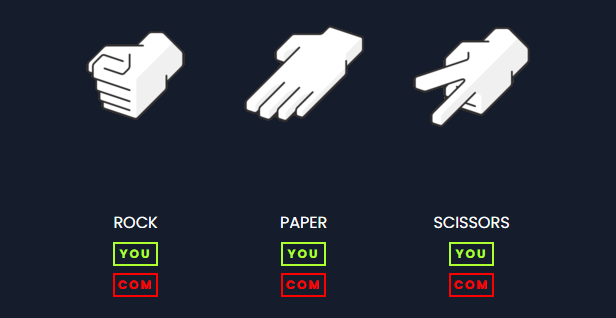
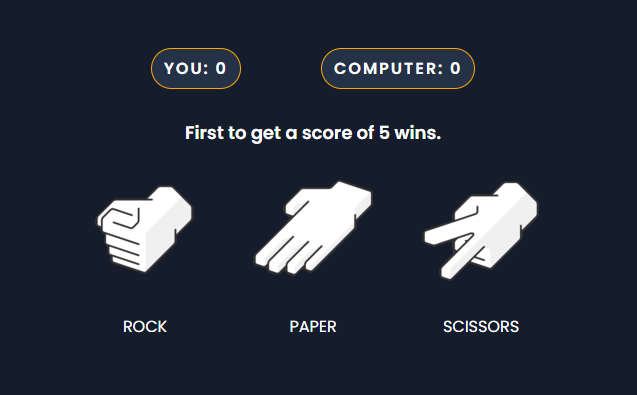
updated thumbnail and description for Rock Paper Scissors Project

diff --git a/index.html b/index.html
@@ -50,6 +50,33 @@
       <!-- Start project section  -->
       <div id="project-section">
         <h2 class="project-section-header">Recent Projects</h2>
+
+        <div class="project-wrapper">
+          <a
+            class="project-tile"
+            href="https://github.com/t-kupp/odin-rock-paper-scissors"
+            target="_blank"
+            ><img
+              class="project-thumbnail"
+              src="./images/rock-paper-scissors-thumbnail.png"
+            />
+            <p class="project-name">Rock Paper Scissors</p></a
+          >
+          <div class="project-description">
+            <p>
+              My first Javascript project. Originally the game was only playable
+              in console but now I added a fully functional User Interface.
+            </p>
+            <div class="language-icon-wrapper">
+              <p>
+                <i class="devicon-html5-plain colored"></i>
+                <i class="devicon-css3-plain colored"></i>
+                <i class="devicon-javascript-plain colored"></i>
+              </p>
+            </div>
+          </div>
+        </div>
+
         <div class="project-wrapper">
           <a
             class="project-tile"
@@ -70,33 +97,6 @@
               <p>
                 <i class="devicon-html5-plain colored"></i>
                 <i class="devicon-css3-plain colored"></i>
-              </p>
-            </div>
-          </div>
-        </div>
-
-        <div class="project-wrapper">
-          <a
-            class="project-tile"
-            href="https://github.com/t-kupp/odin-rock-paper-scissors"
-            target="_blank"
-            ><img
-              class="project-thumbnail"
-              src="./images/rock-paper-scissors-thumbnail.png"
-            />
-            <p class="project-name">Rock Paper Scissors</p></a
-          >
-          <div class="project-description">
-            <p>
-              The first Javascript project from theodinproject.com. The game is
-              currently only playable in console and I am working on building a
-              usable interface.
-            </p>
-            <div class="language-icon-wrapper">
-              <p>
-                <i class="devicon-html5-plain colored"></i>
-                <i class="devicon-css3-plain colored"></i>
-                <i class="devicon-javascript-plain colored"></i>
               </p>
             </div>
           </div>

diff --git a/README.md b/README.md
@@ -2,4 +2,4 @@
 Portfolio Website
 
 Putting what I have learned in freecodecamp.org's responsive web design course to the test I developed my first own portfolio website.
-It is quite empty for now but I hope to add more projects in the future!
+It is a little empty for now but I hope to add more projects in the future!
